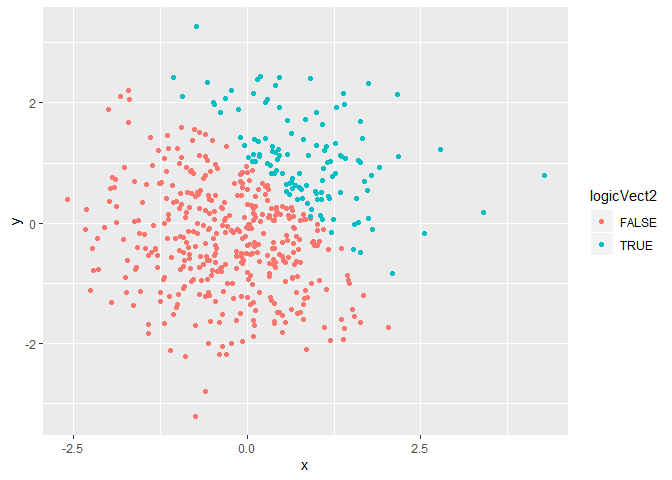
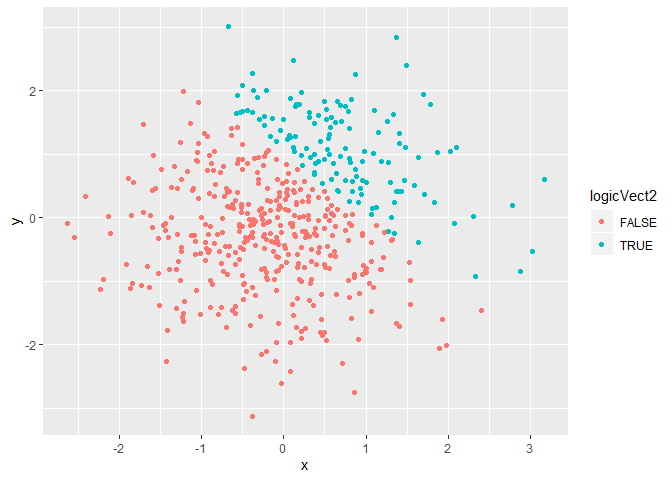
Final check on code- it works, seems to have all required components, outputs git doc

diff --git a/p8105_hw1_are2132.md b/p8105_hw1_are2132.md
@@ -54,8 +54,8 @@ sample
 as.numeric(pull(df1,logicVect1))*pull(df1,normSamp)
 ```
 
-    ## [1] 1.1370943 1.2151050 0.1829258 0.0000000 1.1426687 0.1193249 0.0000000
-    ## [8] 0.0000000
+    ## [1] 0.19153906 1.95018260 0.55239351 0.22967938 1.27810878 0.00000000
+    ## [7] 0.00000000 0.02221838
 
 ``` r
 as.factor(pull(df1,logicVect1))*pull(df1,normSamp)
@@ -70,10 +70,10 @@ as.factor(pull(df1,logicVect1))*pull(df1,normSamp)
 as.numeric(as.factor(pull(df1,logicVect1)))*pull(df1,normSamp)
 ```
 
-    ## [1]  2.2741886  2.4302099  0.3658516 -0.9575281  2.2853373  0.2386497
-    ## [7] -0.7611630 -1.0093816
+    ## [1]  0.38307812  3.90036520  1.10478702  0.45935875  2.55621757 -2.05880874
+    ## [7] -0.12650492  0.04443676
 
-Again, we see that in the middle example above we cannot get a
+Again, we see that in the middle example above we *cannot* get a
 reasonable numerical output since we are attempting to multiply a
 numeric by a factor
 
@@ -93,10 +93,10 @@ df2 = tibble(
 
 In summary,  
 The dataset `df2` has 500 rows and 5 columns  
-The mean of `x` is -0.0308736  
-The median of `x` is 0.0223355  
-The standard deviation of `x` is 0.9855704  
-The proportion of cases for which `x + y > 1` is 0.236
+The mean of `x` is 0.0034008  
+The median of `x` is 8.754990110^{-4}  
+The standard deviation of `x` is 0.9256672  
+The proportion of cases for which `x + y > 1` is 0.258
 
 ## Scatterplot 1
 
@@ -113,8 +113,8 @@ for the (x,y) pair. The point is
   - Blue if `(x+y) > 1` or `logicVect2 = TRUE`  
   - Red if `(x+y) <= 1` or `logicVect2 = FALSE`
 
-We’ll also save this plot to the R project as a
-jpeg
+We’ll also **save this plot** to the R project as a jpeg
+file
 
 ``` r
 plot1 = ggplot(df2, aes(x = x, y = y, color = numerVect2)) + geom_point()
